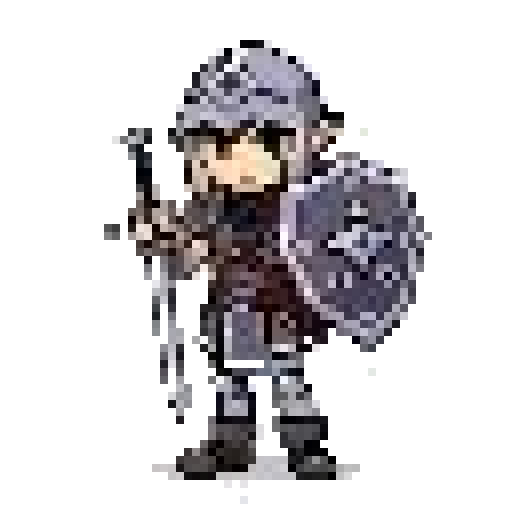
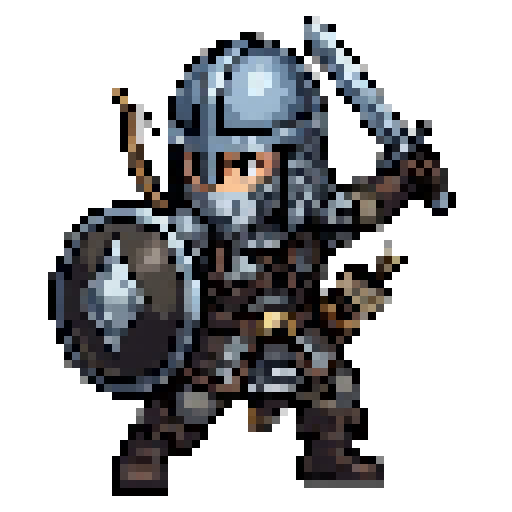
Redo the 6 hero portraits with distinct three-quarter poses
Same design/colors/equipment per class as before, generated via Gemini
and post-processed to a true 64x64 pixel grid with the new
tools/pixelate-character.js (same nearest-neighbour downscale/upscale
principle as tools/pixelate-card.js, plus background stripping since
these portraits float over other UI, unlike card art).

Each class now has a pose matching its identity instead of a generic
frontal stance: Guerrier charging, Paladin standing sentinel, Mage
mid-incantation, Assassin crouched and stealthy, Necromancien in a
calm ritual gesture, Barde performing joyfully.

diff --git a/tools/pixelate-character.js b/tools/pixelate-character.js
@@ -1,0 +1,55 @@
+// Post-traitement pixel-art pour les portraits d'aventurier générés "à la main"
+// via un outil externe (Gemini, etc.) -- ce script ne génère rien lui-même, il ne
+// fait que forcer une vraie grille de pixels sur une image déjà produite ailleurs,
+// PUIS détoure son fond (contrairement à tools/pixelate-card.js, qui ne détoure
+// jamais -- voir son commentaire).
+// Usage : node tools/pixelate-character.js chemin/vers/image-source.png <class_id>
+// Écrit dans game/assets/characters/heroes/<class_id>.png (voir Sprites.hero,
+// sprites.lua -- le jeu charge le portrait par cet id de classe, ex. "guerrier",
+// "paladin"...).
+//
+// Même principe que pixelate-card.js (downscale vers une petite grille PUIS
+// agrandissement en "plus proche voisin" pour écraser les dégradés en blocs
+// nets) mais grille "character" (64x64, voir GRID_PRESETS dans lib/gen-core.js)
+// et détourage par composantes connexes (stripBackground, même fonction que
+// pour les héros/ennemis/icônes générés via le pipeline Cloudflare) : ces
+// portraits flottent sur d'autres fonds dans l'UI (icônes, écran d'équipe,
+// Forge -- voir Sprites.hero), un fond opaque n'est donc PAS voulu ici,
+// contrairement aux illustrations de carte.
+//
+// Prérequis important : l'image source doit avoir un fond BLANC ou quasi-blanc
+// (le prompt Gemini doit le demander explicitement) -- stripBackground ne sait
+// détourer que du quasi-blanc, jamais une autre couleur de fond.
+//
+// Si la source est une CAPTURE D'ÉCRAN de l'outil de génération (boutons/pagination
+// visibles autour de l'image, pas un export propre) : recadrer d'abord pour ne
+// garder que l'image elle-même, ce script ne le fait pas à sa place.
+
+const fs = require('fs');
+const path = require('path');
+const sharp = require('sharp');
+const { GRID_PRESETS, FINAL_SIZE, stripBackground } = require('./lib/gen-core');
+
+async function main() {
+  const [, , inPath, classId] = process.argv;
+  if (!inPath || !classId) {
+    console.error('Usage: node tools/pixelate-character.js chemin/vers/image-source.png <class_id>');
+    process.exit(1);
+  }
+  if (!fs.existsSync(inPath)) {
+    console.error('Fichier introuvable :', inPath);
+    process.exit(1);
+  }
+
+  const gridSize = GRID_PRESETS.character;
+  const outPath = path.join(__dirname, '..', 'game', 'assets', 'characters', 'heroes', `${classId}.png`);
+  fs.mkdirSync(path.dirname(outPath), { recursive: true });
+
+  const small = await sharp(inPath).resize(gridSize, gridSize, { fit: 'cover', kernel: 'nearest' }).toBuffer();
+  const transparent = await stripBackground(small, gridSize, gridSize);
+  await sharp(transparent).resize(FINAL_SIZE, FINAL_SIZE, { kernel: 'nearest' }).toFile(outPath);
+
+  console.log('OK ->', outPath, `(grille ${gridSize}x${gridSize}, détourée)`);
+}
+
+main().catch((e) => { console.error('FAILED:', e.message); process.exit(1); });
